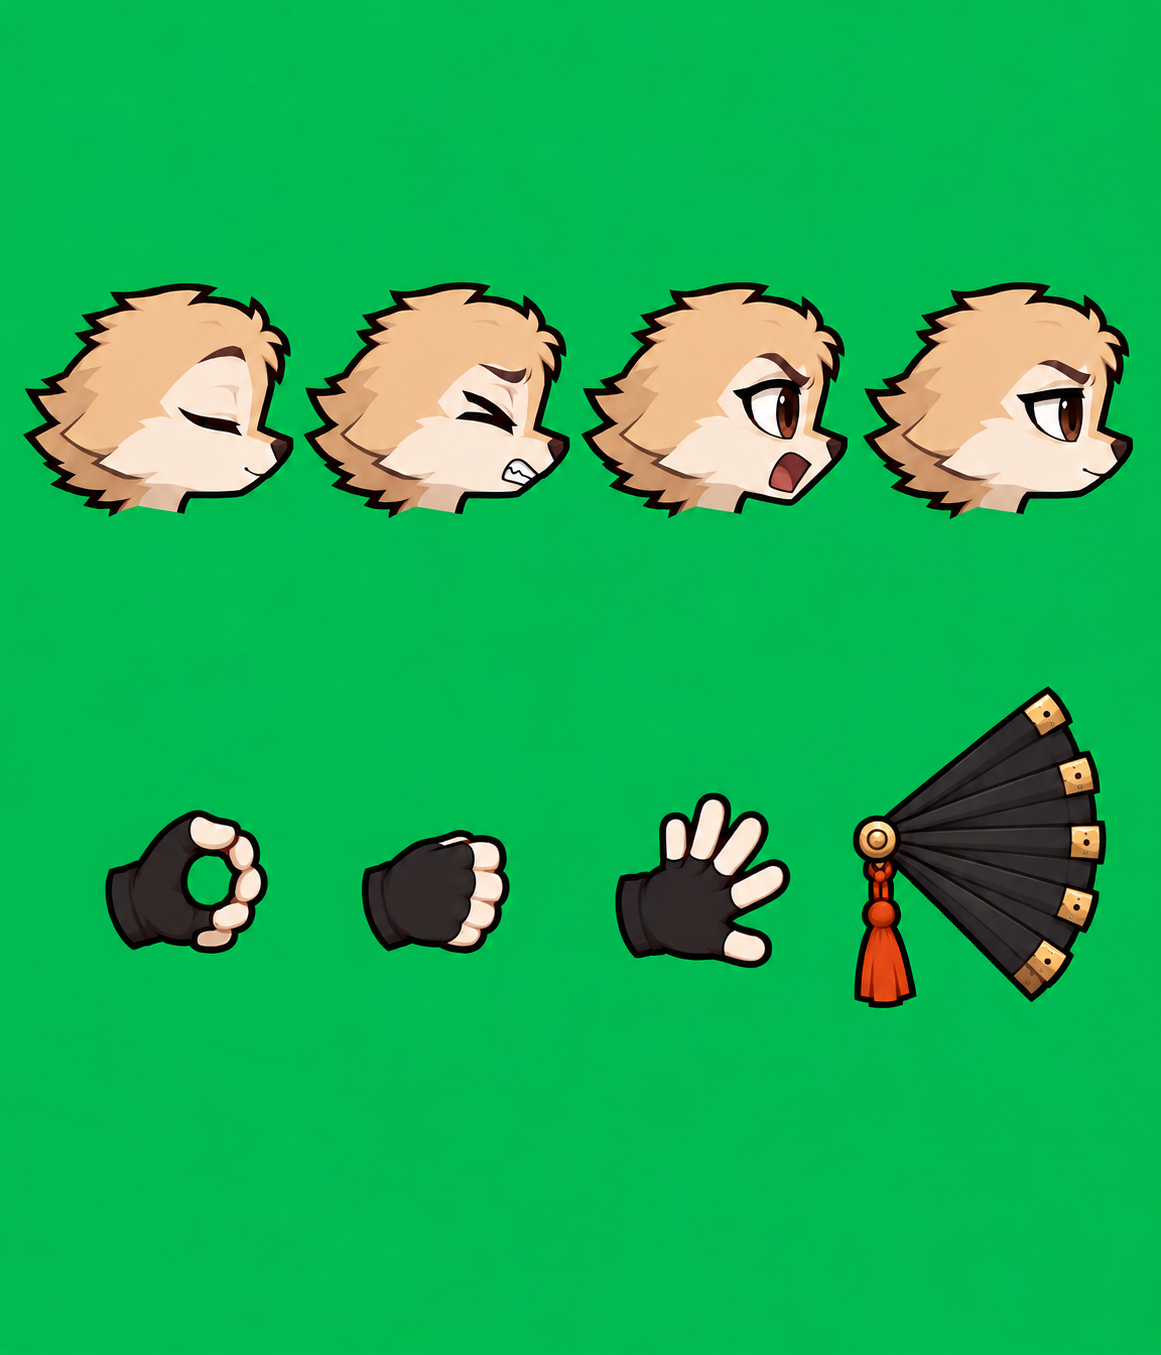
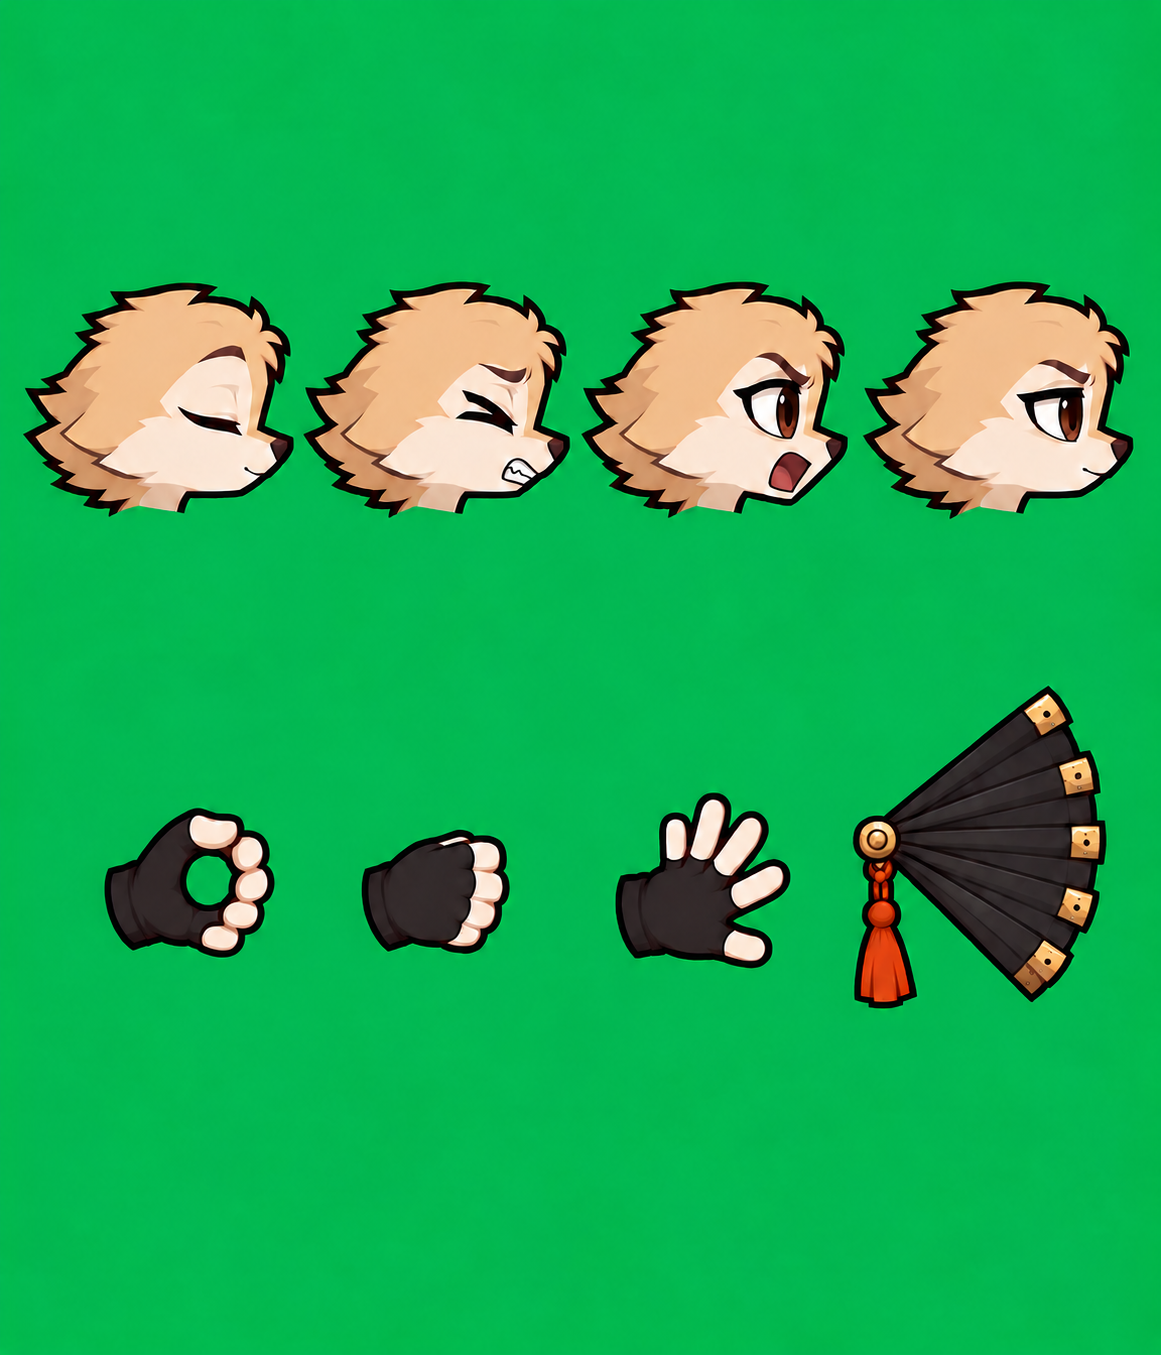
Fix extra grip hand to five digits

diff --git a/HANDOFF.md b/HANDOFF.md
@@ -32,6 +32,7 @@
 - 2026-10-10 자세·표정 수정 v3: `assets/hero/raw/hero_side_final_v3.png`, 최신 `hero_side_final.png` (부채 길이 유지·내려 잡기·차분한 미소, 승인 대기).
 - 2026-10-10 v3 사용자 최종 승인(앞선 승인 대기 상태 대체). 부품 시트: `assets/hero/raw/parts_sheet.png`, 초안 `parts_sheet_alt1.png` (제작 검수 전).
 - 2026-10-10 Codex 3b 생성: `assets/hero/raw/parts_sheet_extra.png`, `fx_sheet.png` (프롬프트·검수 메모: `docs/HERO_ART_PROMPTS.md`).
+- 2026-10-10 사용자 보충 아트 나머지 승인, 맨 왼쪽 쥔 손만 5개 손가락으로 수정: `assets/hero/raw/parts_sheet_extra.png`.
 - 스토리·UI·아트 확장은 보류.
 
 - 2026-10-09 최신 수정: 공중 두 번째 대시는 새 입력 방향으로 즉시 발동. 방향키와 Shift 입력 순서 차이를 0.06초 방향 입력 유예로 처리. 사용자 실플레이에서 작동 확인 후 tt 업로드 요청. 입력 주입 225검사, 기존 회귀 15개 모음 통과. 상세: `docs/MOVEMENT_INPUT_AUDIT.md`.
@@ -41,7 +42,7 @@
 1. 완료(2026-10-09): 새 방 5~8 사용자 플레이 판정 "나름 재밌었다". 5·8 굴뚝(벽 점프 없이 통과)·8 탄환 방(탄환 없이 통과) 우회는 남아 있음. 사용자가 불편을 말하면 Claude가 재설계하고 Codex가 경로 테스트를 고친다.
 2. 사용자: 골렘 튕기기 장난감 2차 플레이 판정(피드백 반영본, PR #2). "시키지 않았는데 다시 붙고 싶은가", 기존 골렘전과 비교. 약점 열림 규칙과 난이도(창 길이) 의견. 구현 완료(Claude), `docs/GOLEM_BASH_REPORT.md`.
 3. 사용자: 효과음 귀 판정(너무 큰/작은/거슬리는 소리, 빠진 순간). 말하면 Claude가 `MIX` 숫자나 `make_sfx.py` 합성식을 고친다.
-4. 주인공: **v3 사용자 확정, 기존 19부품 시트 Claude 검수 통과. Codex 3b 보충 시트·효과 시트 생성 완료. 다음은 Claude 보충 그림 검수 및 자르기·리그·동작.** 기존 시트 보정은 HERO_ART_PLAN 검수 결과 우선(꼬리 약 1.45배, 편 부채 약 1.1배). 보충 시트는 손 배율이 크고 집중 표정의 미소·부채 펼침각이 남아 있어 보정/재생성 판단 필요. 효과는 5종이며 베기 호가 120도보다 넓음. 상세 HERO_ART_PROMPTS 참조.
+4. 주인공: **v3 사용자 확정, 기존 19부품 시트 Claude 검수 통과. Codex 3b 보충 시트·효과 시트 생성 완료. 다음은 Claude 보충 그림 검수 및 자르기·리그·동작.** 기존 시트 보정은 HERO_ART_PLAN 검수 결과 우선(꼬리 약 1.45배, 편 부채 약 1.1배). 사용자는 손가락 오류 외 보충 아트 승인. 쥔 손 5개 손가락 수정 완료. 다른 표정·부채·효과는 유지하고 조립 시 배율만 맞춘다. 상세 HERO_ART_PROMPTS 참조.
 5. 둘 다 통과하면: 움직임 + 보스를 묶은 짧은 구간(방 몇 개 + 보스 하나)으로 다음 관문 설계.
 
 ## 문서 지도

diff --git a/docs/HERO_ART_PROMPTS.md b/docs/HERO_ART_PROMPTS.md
@@ -123,3 +123,11 @@ Create a 2D game effects sheet in the same art style as the attached character (
 ## 3b 확인 결과
 
 보충 시트는 귀 없는 머리 4개·팔 없는 손 3개·반쯤 편 부채 1개로 분리됨. 최초 결과에 붙은 팔·토시는 수정 생성으로 제거. 손은 기존 시트보다 커서 정확한 동일 픽셀 배율 조건은 미충족: 조립 시 손 배율 보정 필요. 집중 표정 입에 약한 미소가 남고, 부채 펼침각은 70도보다 넓어 보여 검수 대상. 효과는 바람 베기·둥근 먼지·착지 먼지·타격 불꽃·여우불 5종 확인. 바람 호는 지시의 120도보다 넓게 표현됨. 효과별 떨어진 작은 조각은 본체와 함께 잘라야 함. 원본 PNG 무편집, 복사본 바이트 동일 확인. 제작 적용·재조립 검수는 Claude 단계.
+
+## 3b 손가락 수정 — 2026-10-10
+
+사용자: 맨 왼쪽 쥔 손 손가락 과다 지적, 나머지 승인. 내장 image_gen으로 기존 parts_sheet_extra.png 편집, transparent_background=false. 결과 원본 무편집 복사. 엄지 1개와 굽힌 손가락 4개 육안 확인.
+
+```text
+Edit ONLY the leftmost hand in the bottom row of this supplementary cutout parts sheet: the black fingerless-gloved gripping hand with the round green hole. It currently has too many digits. Redraw that single hand with anatomically correct EXACTLY FIVE digits total: ONE thumb and FOUR fingers. Show one thumb wrapping across the top/side and exactly four curled fingers around the grip, with no sixth fingertip, extra nub, duplicated finger, or extra thumb. Preserve the empty round green hole for the fan handle, the existing hand's size, location, angle, dark glove, cream fingertips, thick outlines and cel shading. Preserve ALL other pixels/content as closely as possible: four heads, other two hands, fan, green background, canvas size and layout. Do not change any other expression, pose, scale or asset. No text.
+```

diff --git a/docs/WORK_LOG.md b/docs/WORK_LOG.md
@@ -213,3 +213,6 @@ The previous test pressed direction before Shift. Four overlapping old-direction
 - origin/claude/project-thread-venykx의 최신 3b 지시를 fast-forward로 반영. 원화와 기존 통과 시트는 보존.
 - 내장 image_gen으로 보충 시트 생성 후 팔·토시 제거 1회 수정, 효과 5종 시트 생성. PNG 원본 및 프롬프트 저장, 복사본 바이트 동일 확인.
 - 보충 8부품과 효과 5종 육안 확인. 손 동일 배율·집중 표정 입·부채/베기 펼침각은 지시와 차이가 남아 Claude 검수에 명시. 게임 코드·수치 변경 및 런타임 테스트 없음.
+
+## 2026-10-10 — 보충 시트 쥔 손 수정
+- 사용자 지적으로 맨 왼쪽 쥔 손만 image_gen 편집. 엄지 1 + 손가락 4 육안 확인. 나머지 사용자 승인 기록. 수정 원본 저장·동일성 확인, 게임 코드 변경 없음.

diff --git a/docs/plan/DIRECTION.md b/docs/plan/DIRECTION.md
@@ -73,3 +73,5 @@
 - 2026-10-10 사용자 수정: 철부채 길이는 유지하며 자연스럽게 내려 잡기, 미소는 조금 줄여 차분하게.
 
 - 2026-10-10: 사용자 hero_side_final_v3.png 최종 디자인 확정. 화풍 A/C부채/D여우불/G털색, 부채 길이 유지·내린 자세·잔잔한 미소.
+
+- 2026-10-10: 사용자 보충 시트의 맨 왼쪽 쥔 손 손가락만 수정 요청, 나머지 승인. 다른 표정·배율·효과 디자인 추가 변경하지 않음.
